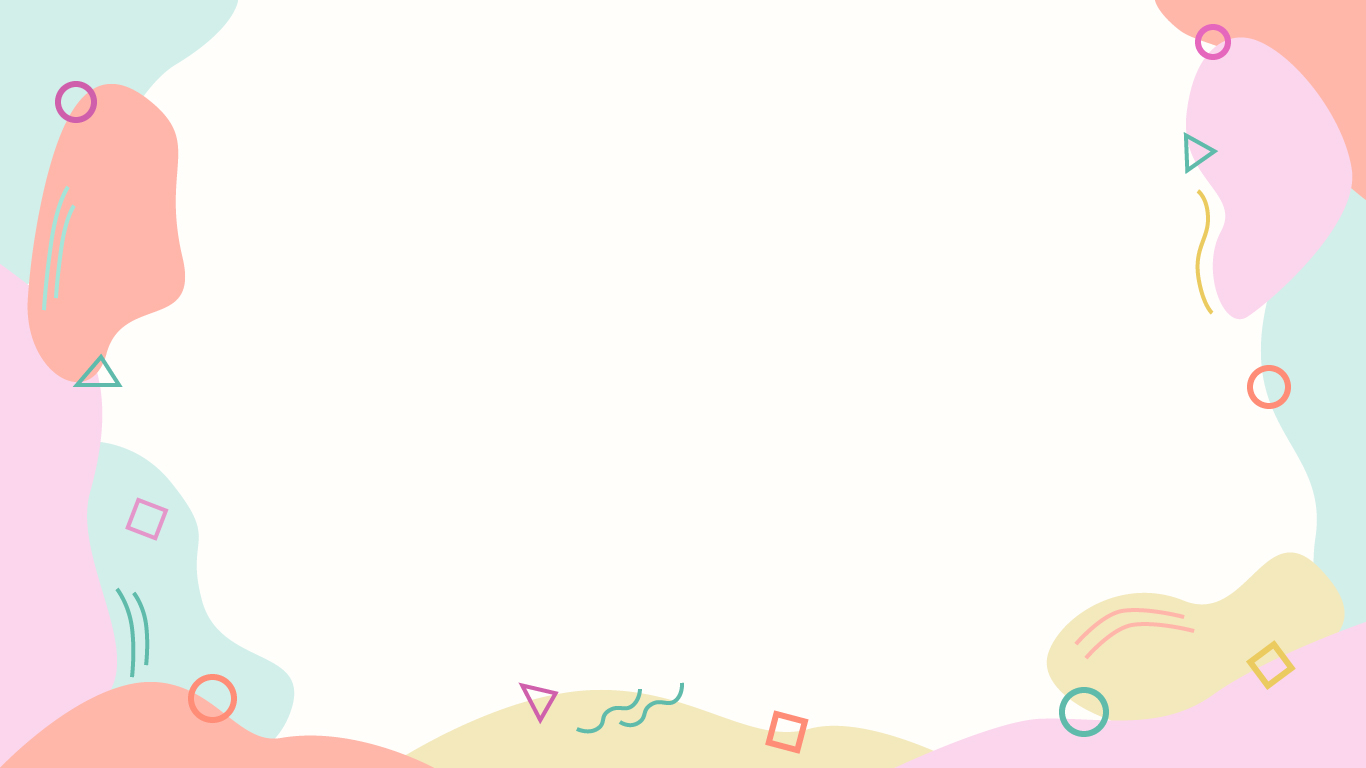
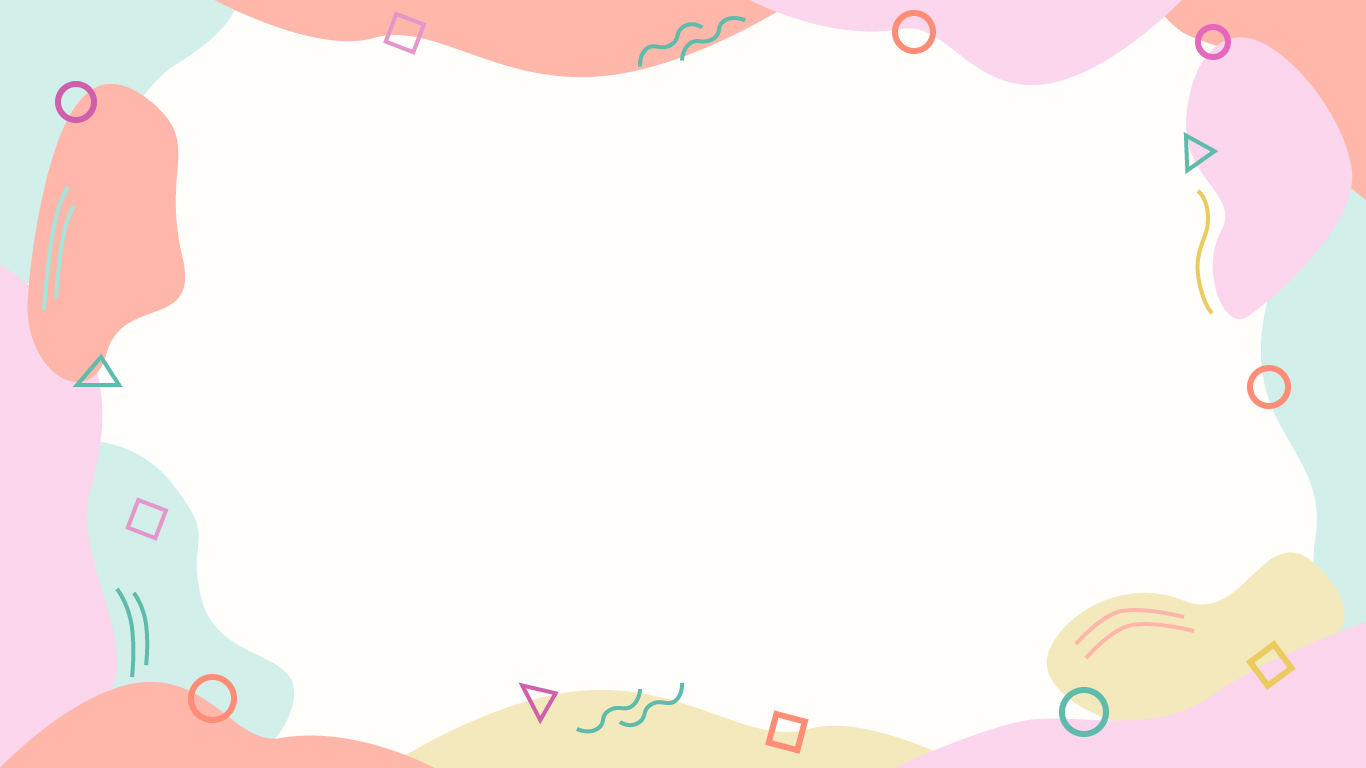
Website changes

Changed region(s): [[0.1537, 0.0, 0.8609, 0.125]]

diff --git a/css/style.css b/css/style.css
@@ -5641,8 +5641,8 @@ body {
   background-color: #fff;
   background-image: url("../img/rb2018-about-bg.jpg");
   background-attachment: fixed;
-  background-size: cover;
   background-position: center;
+  background-repeat: repeat;
   text-align: center;
   padding-top: 60px;
   display: flex;

diff --git a/sass/style.scss b/sass/style.scss
@@ -119,8 +119,8 @@ body {
 	background-color: #fff;
 	background-image: url('../img/rb2018-about-bg.jpg');
 	background-attachment: fixed;
-	background-size: cover;
 	background-position: center;
+	background-repeat: repeat;
 	text-align: center;
 	padding-top: 60px;
 	display: flex;
